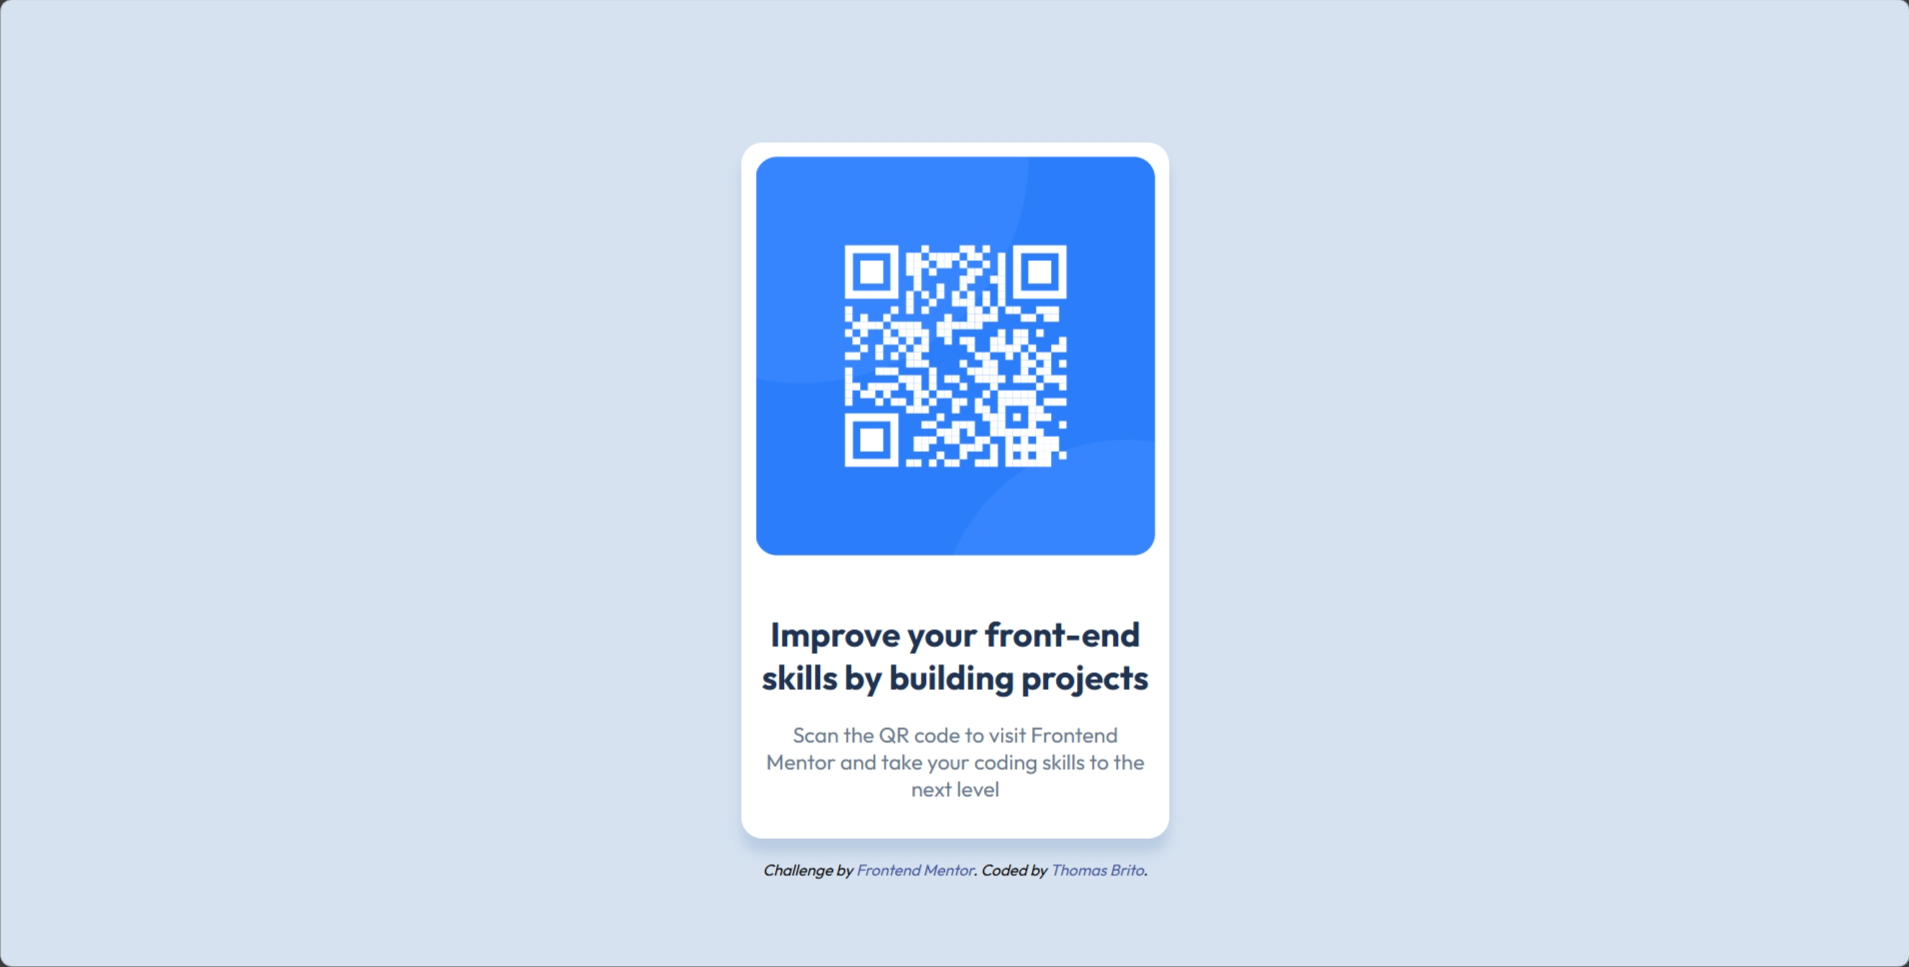
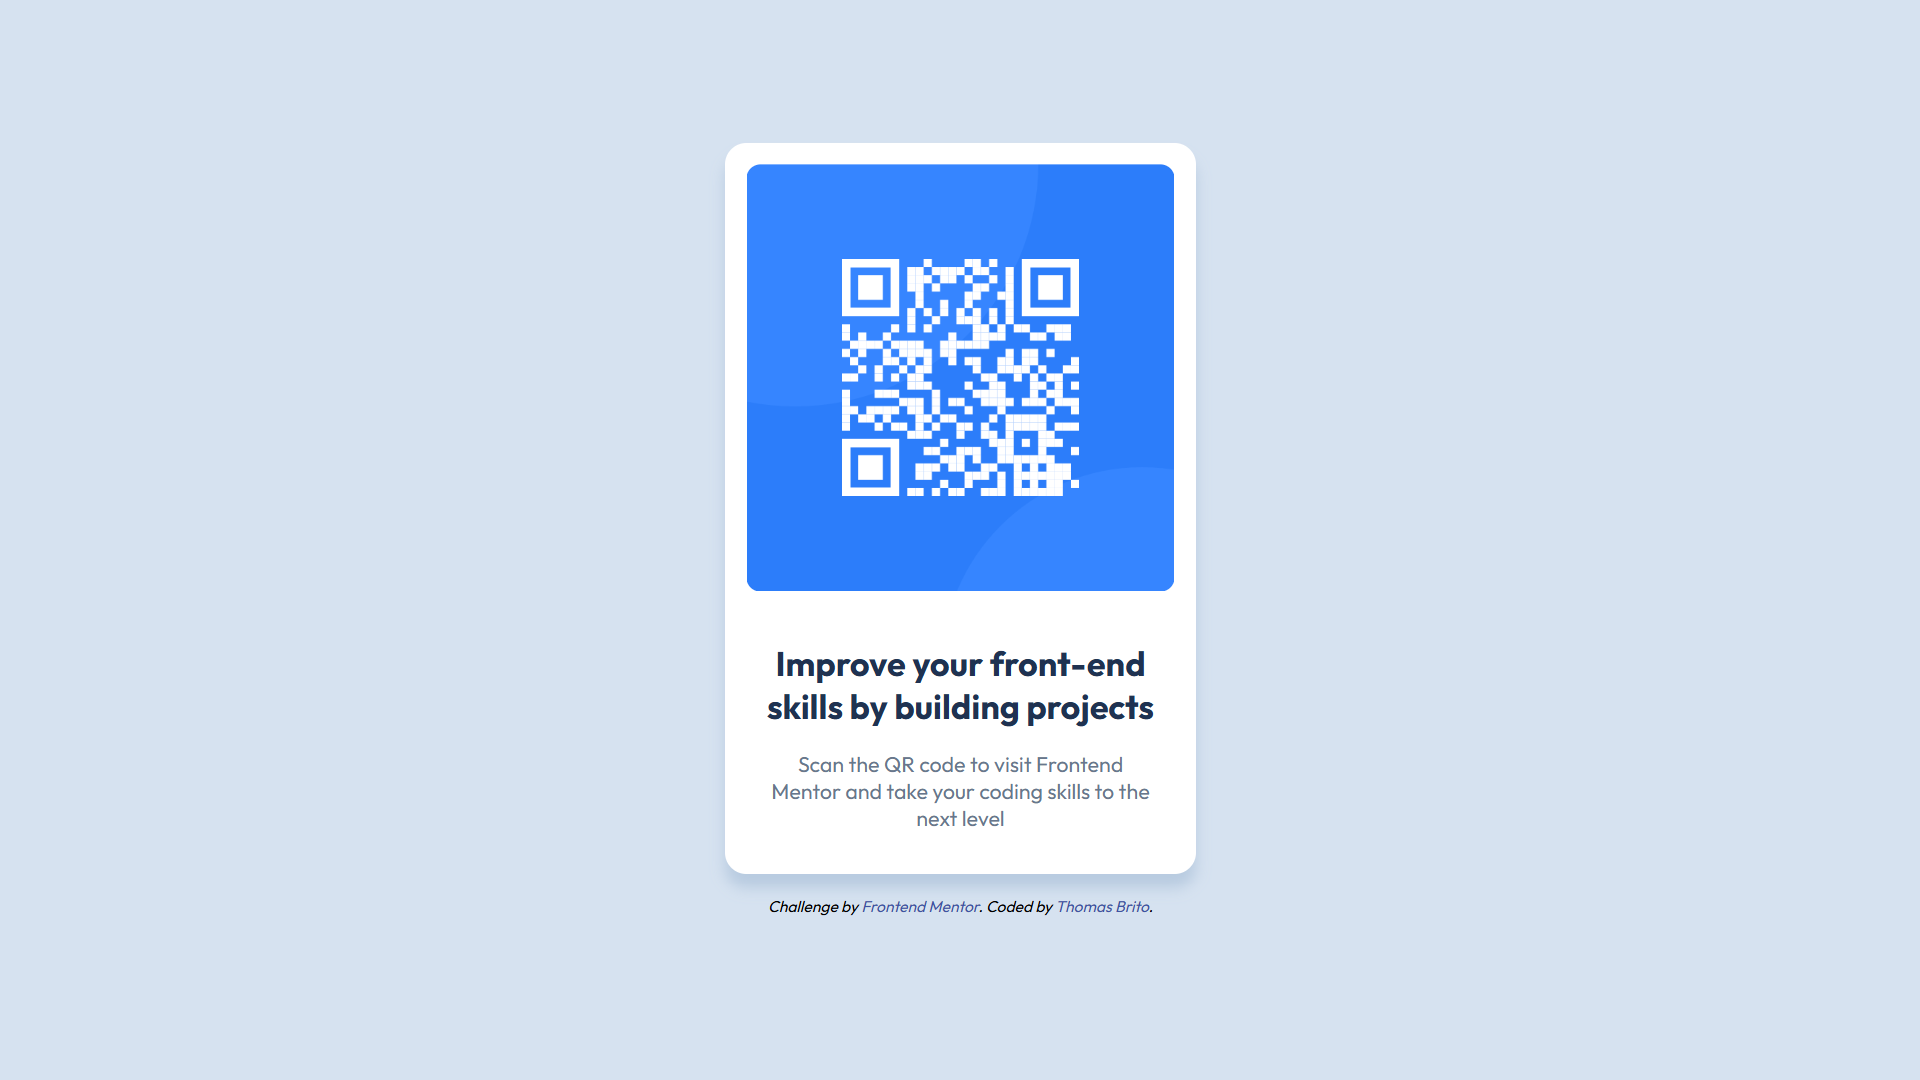
Revisado

Changed region(s): [[0.3709, 0.1241, 0.649, 0.9307], [0.0, 0.9928, 1.0, 1.0]]

diff --git a/index.html b/index.html
@@ -2,14 +2,14 @@
 <html lang="en">
 <head>
 
-  <meta charset="UTF-8">
-  <meta name="viewport" content="width=device-width, initial-scale=1.0"> <!-- mostra o site de acordo com a largura da tela do dispositivo do usuário -->
+  <meta charset="UTF-8"/>
+  <meta name="viewport" content="width=device-width, initial-scale=1.0"/> <!-- mostra o site de acordo com a largura da tela do dispositivo do usuário -->
 
-  <link rel="icon" type="image/png" sizes="32x32" href="./images/favicon-32x32.png">
+  <link rel="icon" type="image/png" sizes="32x32" href="./images/favicon-32x32.png"/>
   <link rel="stylesheet" href="style.css"/>
-  <link rel="preconnect" href="https://fonts.googleapis.com">
-  <link rel="preconnect" href="https://fonts.gstatic.com" crossorigin>
-  <link href="https://fonts.googleapis.com/css2?family=Outfit:wght@100..900&display=swap" rel="stylesheet">
+  <link rel="preconnect" href="https://fonts.googleapis.com"/>
+  <link rel="preconnect" href="https://fonts.gstatic.com" crossorigin/>
+  <link href="https://fonts.googleapis.com/css2?family=Outfit:wght@100..900&display=swap" rel="stylesheet"/>
 
   <title>Frontend Mentor | QR code component</title>
 
@@ -17,7 +17,7 @@
 <body>
 
   <main class="principal">
-    <a href="https://www.frontendmentor.io" target="_blank"><img src="images/image-qr-code.png" alt="Código QR" width=280px/></a>
+    <a href="https://www.frontendmentor.io" target="_blank"><img src="images/image-qr-code.png" alt="Código QR" width="300"/></a>
     <div class="texto">
       <h1>Improve your front-end skills by building projects</h1>
       <p>Scan the QR code to visit Frontend Mentor and take your coding skills to the next level</p>

diff --git a/style.css b/style.css
@@ -6,7 +6,7 @@ body {
 }
 
 .principal, .autor {
-    width: 300px;
+    width: 330px;
 }
 
 .principal {
@@ -18,12 +18,13 @@ body {
     margin-top: 100px;
 }
 
-.principal img, .texto {
-    padding: 10px;
+.principal img {
+    padding: 15px;
+    border-radius: 25px;
 }
 
-.principal img {
-    border-radius: 25px;
+.principal .texto {
+    padding: 0 25px 15px;
 }
 
 .principal .texto h1 {
@@ -48,4 +49,13 @@ body {
 
 .autor a:hover {
     color: hsl(218, 44%, 22%);
+}
+
+@media screen and (max-width: 375px) {
+    .principal, .autor, img {
+        width: 90%;
+    }
+    img {
+        padding: 2%;
+    }
 }
